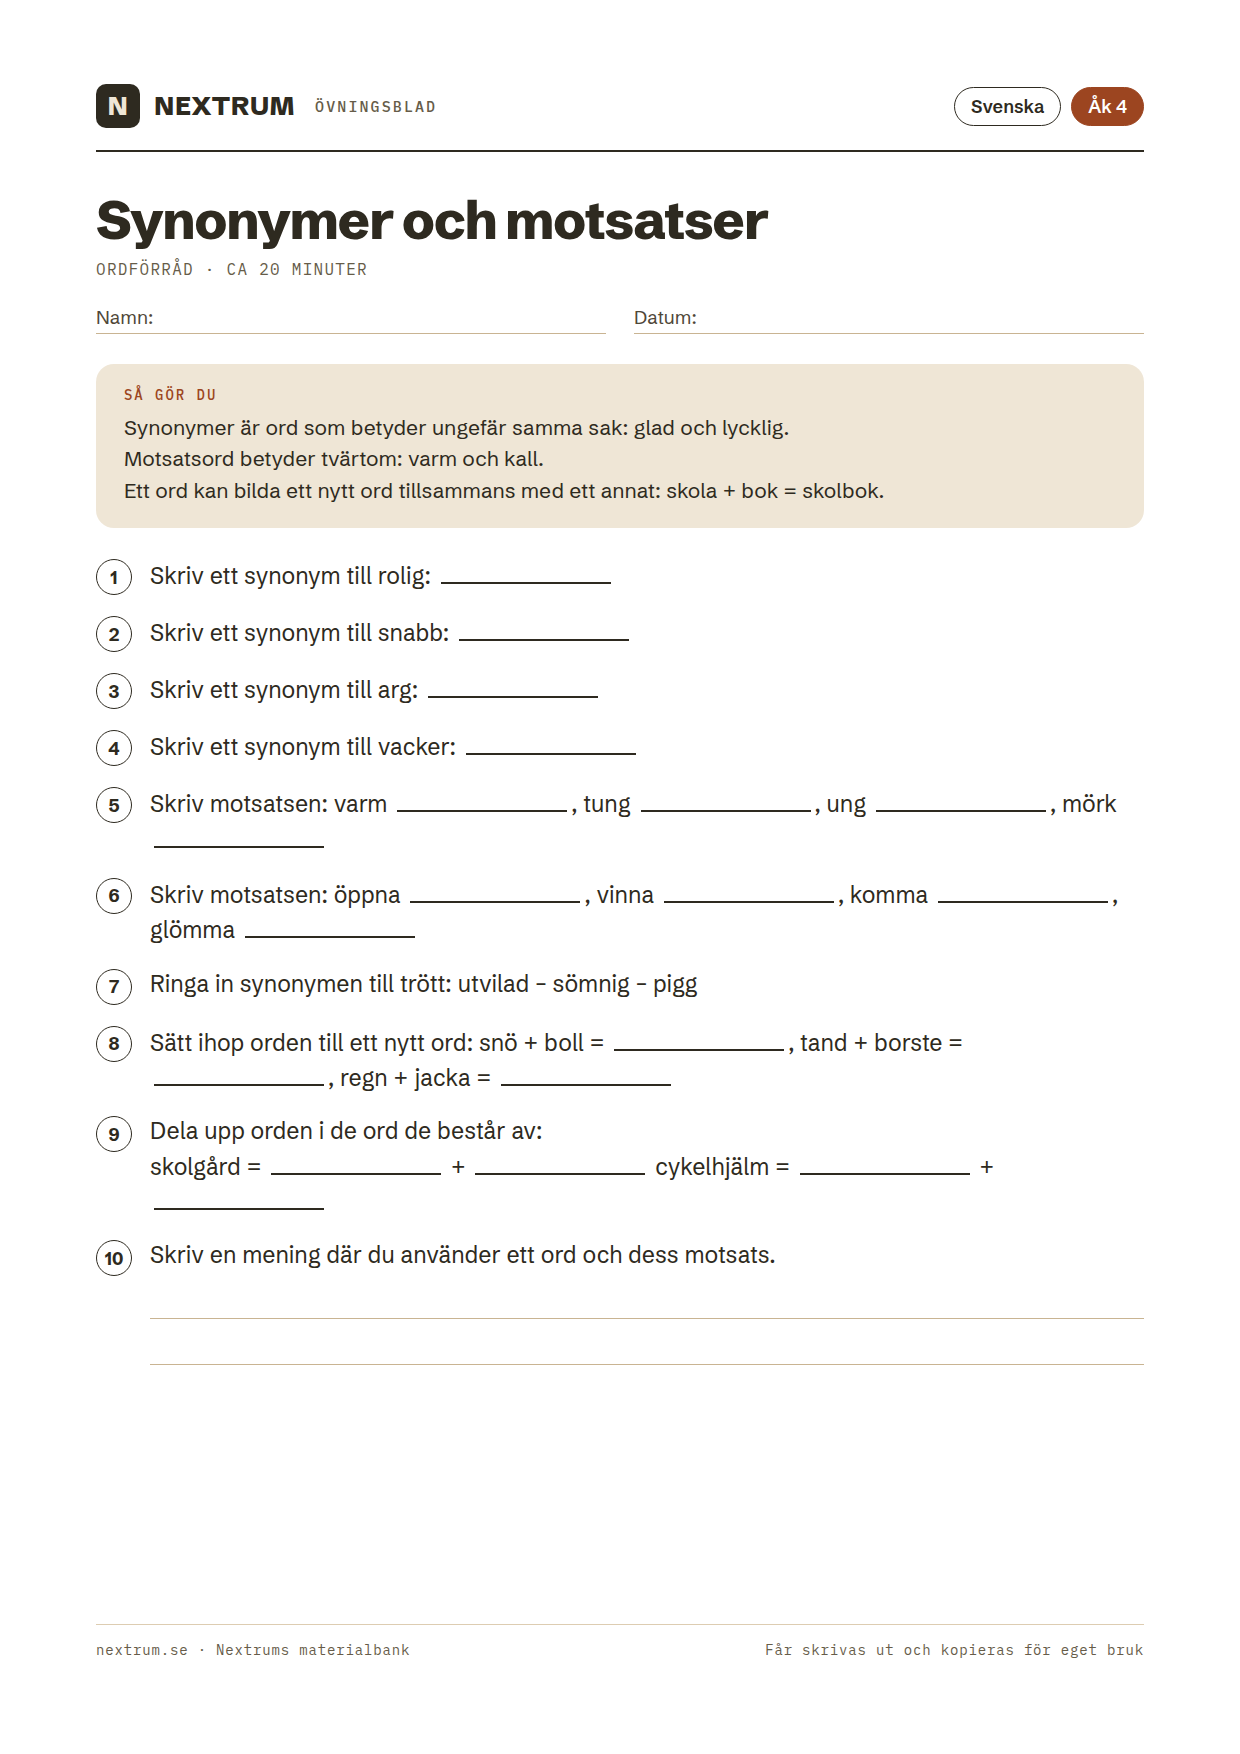
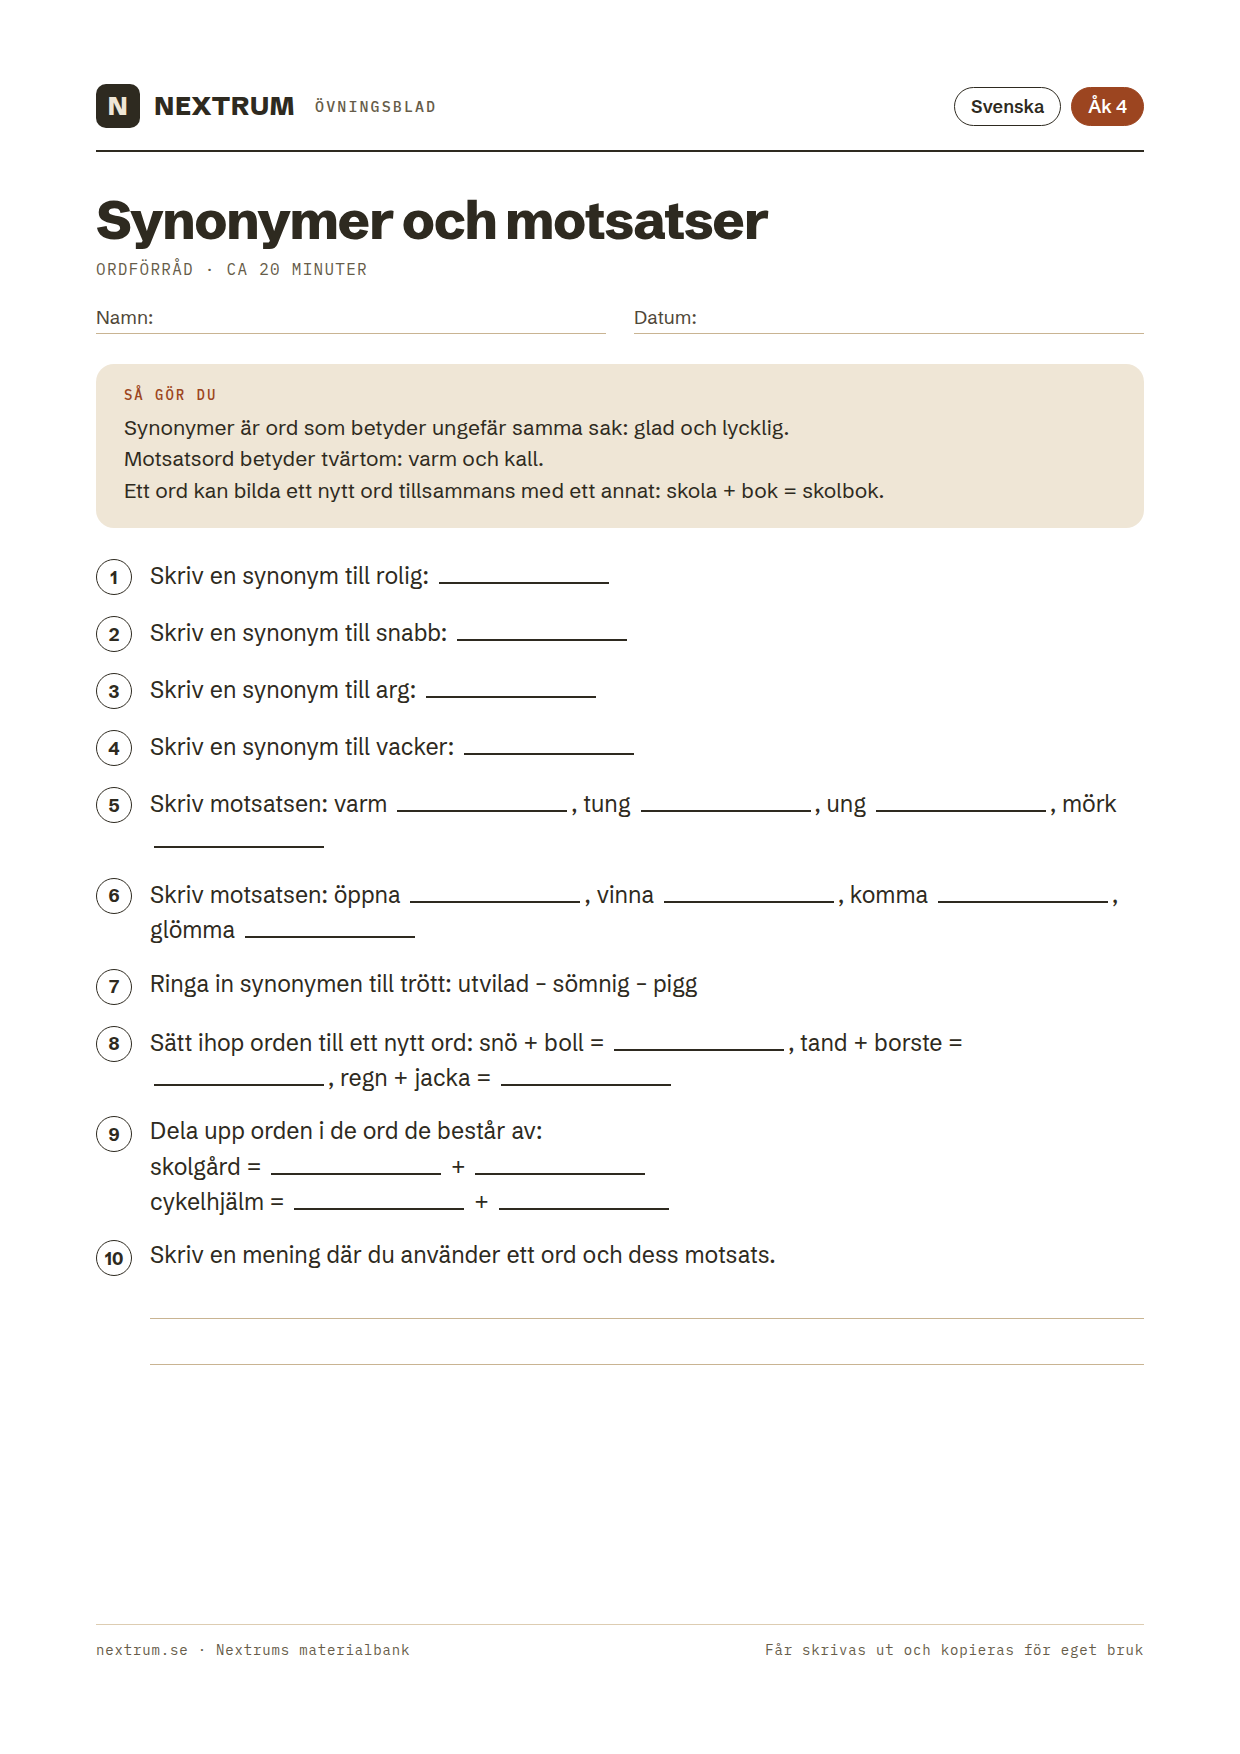
Fas 15.9: facit till mellanstadiets 18 blad, och tre rättelser
Facit har ett svar per uppgift, 141 i allt, och ritas till bank/facit/.
Den som skrev det löste varje uppgift och läste figurerna; tre blad
rättades: "en synonym" i stället för "ett", en ruta som sa 1 cm fast
den är mindre på papperet, och tinget där fria män samlades.

Claude-Session: https://claude.ai/code/session_011LBvXSaptKobfKq6P5G3d3

Changed region(s): [[0.1839, 0.3079, 0.3677, 0.431], [0.521, 0.6465, 0.6129, 0.6773], [0.1226, 0.6773, 0.2145, 0.7081]]

diff --git a/verktyg/bladen/facit_mellanstadiet.py b/verktyg/bladen/facit_mellanstadiet.py
@@ -1,0 +1,223 @@
+# -*- coding: utf-8 -*-
+"""Facit till bladen i mellanstadiet.py: ett svar per uppgift, i bladets ordning. Läs om facit i bygg-banken.py."""
+
+FACIT = {
+    'ak4-engelska-veckodagar-och-manader': [
+        'Monday',
+        'Wednesday',
+        'Friday',
+        'Sunday',
+        'Wednesday',
+        'April',
+        'Eget svar. Månaden med stor bokstav: January, February, March, April, May, June, July, August, '
+        'September, October, November eller December.',
+        'Eget svar. Dagens veckodag och dagen efter, med stor bokstav, till exempel: Today is Monday. '
+        'Tomorrow is Tuesday.',
+    ],
+
+    'ak5-matematik-brak': [
+        '3/8 (3 av 8 lika stora bitar)',
+        '1/2. Delar man samma helhet i 2 delar blir varje del större än om man delar den i 4 delar; '
+        '1/2 = 2/4, som är mer än 1/4.',
+        '1/2',
+        '4 (12 : 3 = 4)',
+        '15 (20 : 4 = 5, och 3 · 5 = 15)',
+        '1/5, 2/5, 3/5, 5/5 (samma nämnare: den minsta täljaren är minst)',
+        'Eget svar. Rektangeln delas i 3 (eller 6, 9 …) lika stora delar, och 2 av 3 delar (4 av 6 …) '
+        'är färglagda.',
+    ],
+
+    'ak6-no-igelkotten-gar-i-ide': [
+        'Djuret sover hela vintern på ett skyddat ställe. Kroppen går på sparlåga: temperaturen sjunker '
+        'och hjärtat slår långsamt, så att det går åt lite energi. (Bygger på texten om vintern.)',
+        'För att bygga upp ett lager av fett, som den lever på under vintern när den sover. '
+        '(Textens andra mening.)',
+        'Gärna under en buske eller i en komposthög. Boet är av löv och gräs.',
+        'Kroppstemperaturen sjunker och hjärtat slår mycket långsammare än vanligt, så den gör av med '
+        'lite energi.',
+        'Igelkotten kan sova i lövhögen. Väcks den för tidigt gör den av med för mycket av sitt fett och '
+        'kan få svårt att klara resten av vintern. (Textens slut.)',
+    ],
+
+    'ak4-matematik-multiplikationstabellerna': [
+        '21',
+        '32',
+        '36',
+        '56',
+        '54',
+        '72',
+        '6',
+        '9',
+        '7',
+        '9',
+        '9',
+        '6',
+        '42 ägg (7 · 6 = 42)',
+        '8 lag (48 : 6 = 8)',
+    ],
+
+    'ak4-matematik-tiondelar-och-decimaltal': [
+        '0,7',
+        '9/10',
+        '0,6',
+        'A = 0,3; B = 1,4',
+        '0,5; 0,8; 1,9; 2,1',
+        '5,9',
+        '2,2',
+        '4,6',
+        '2,4',
+        '3 kg (1,5 + 1,5 = 3,0)',
+        '24 dm (1 m = 10 dm, så 2,4 m = 24 dm)',
+    ],
+
+    'ak4-svenska-synonymer-och-motsatser': [
+        'Till exempel: kul, skojig, lustig.',
+        'Till exempel: kvick, rask, hastig, fort.',
+        'Till exempel: ilsken, sur, rasande, förargad.',
+        'Till exempel: vacker = fin, söt, snygg, stilig.',
+        'varm – kall, tung – lätt, ung – gammal, mörk – ljus',
+        'öppna – stänga, vinna – förlora, komma – gå (åka), glömma – komma ihåg (minnas)',
+        'sömnig',
+        'snöboll, tandborste, regnjacka',
+        'skolgård = skola + gård\ncykelhjälm = cykel + hjälm',
+        'Eget svar. En hel mening med ett ord och dess motsats, till exempel: Det var varmt inne men '
+        'kallt ute.',
+    ],
+
+    'ak4-engelska-describing-people': [
+        'She has long hair.',
+        'He is tall.',
+        'I have blue eyes.',
+        'My sister has brown hair.\nWe have a big dog.',
+        'I am nine.\nShe is my friend.\nWe are in class four.',
+        'tall = lång, short = kort, curly = lockig, young = ung',
+        'Eget svar. Tre meningar med has (och gärna is), till exempel: She has short curly hair. She has '
+        'brown eyes. She is tall.',
+    ],
+
+    'ak4-so-karta-och-vaderstreck': [
+        'N = norr, Ö = öster, S = söder, V = väster',
+        'söder',
+        'sydväst',
+        'Solen går upp i öster och går ner i väster.',
+        'söder om Stockholm',
+        'Norge och Finland',
+        'En förklaring till kartans tecken, färger och symboler, så att man vet vad de betyder.',
+        'Eget svar. Kartan visar vägen uppifrån med till exempel hus, vägar och skolan, och har en '
+        'teckenförklaring till tecknen. Gärna en pil mot norr.',
+    ],
+
+    'ak5-matematik-area-och-omkrets': [
+        'Omkrets: 26 cm (8 + 5 + 8 + 5)\nArea: 40 cm² (8 · 5)',
+        '24 dm (4 · 6)',
+        '7 cm (7 · 7 = 49)',
+        '4 cm (20 − 6 − 6 = 8, och 8 : 2 = 4)',
+        '4 cm (36 : 9 = 4)',
+        '20 m² (4 · 5)',
+        'Två av: 1 cm · 12 cm, 2 cm · 6 cm, 3 cm · 4 cm. Varje rektangel ska täcka 12 rutor och ha '
+        'sidorna utskrivna.',
+    ],
+
+    'ak5-matematik-diagram-och-medelvarde': [
+        '10',
+        '10 (7 + 3)',
+        '30 (7 + 10 + 3 + 2 + 8)',
+        '7 poäng (6 + 8 + 5 + 9 + 7 = 35, och 35 : 5 = 7)',
+        '3 (står tre gånger)',
+        '5 (i ordning: 2, 4, 5, 7, 9)',
+        'Eget svar. Fyra staplar med namn (äpple, banan, apelsin, päron) och höjderna 5, 3, 4 och 2, '
+        'en y-axel med jämna steg och gärna en rubrik eller "Antal frukter".',
+    ],
+
+    'ak5-svenska-skriva-dialog': [
+        'Till exempel:\n– Vart ska du? frågade Lena.\n– Jag ska till biblioteket, svarade Omar.\n'
+        'Varje replik på en ny rad med talstreck, och liten bokstav i "frågade" och "svarade".',
+        '– Vilken fin dag! sa Lena. (liten bokstav efter utropstecknet)',
+        '– Jag vill åka hem, sa Omar. (punkten byts mot komma)',
+        'Eget svar. Tre verb, till exempel: frågade, skrek, mumlade, utbrast, suckade, ropade, viskade.',
+        'Eget svar. Fyra repliker, var och en på en ny rad med talstreck, rätt skiljetecken före "sa"/'
+        '"frågade" och gärna andra verb än sa.',
+    ],
+
+    'ak5-engelska-present-simple': [
+        'play',
+        'plays',
+        'goes',
+        'watches',
+        'eat',
+        'live',
+        'She cycles to school every day. (Också rätt: She rides her bike to school every day.)',
+        'Eget svar. Tre meningar i present simple, med -s om han/hon, till exempel: I wake up at seven. '
+        'I eat breakfast. I go to school by bus.',
+    ],
+
+    'ak5-so-vikingatiden': [
+        'Ungefär från år 800 till år 1050. (Textens första mening.)',
+        'Långskepp',
+        'Två av: silver, pälsar, slavar.',
+        'Två av: Oden, Tor, Frej.',
+        'En samling där de fria männen möttes och avgjorde viktiga frågor.',
+        'De flesta var bönder och fiskare hemma, men många gav sig ut på långa resor, till exempel '
+        'österut genom Ryssland och Ukraina mot Konstantinopel.',
+    ],
+
+    'ak6-matematik-negativa-tal-och-koordinatsystem': [
+        'A = −4; B = 3',
+        '−3',
+        '−5, −1, 0, 2, 4',
+        '5 °C (−4 + 9 = 5)',
+        '−4 °C (3 − 7 = −4)',
+        '5 − 8 = −3\n−2 + 6 = 4',
+        'A = (3, 2); B = (−2, 3); C = (−4, −1); D = (2, −3)',
+        'E: 3 steg till vänster och 2 steg ner från origo. F: på y-axeln, 4 steg upp (översta linjen).',
+    ],
+
+    'ak6-matematik-enkla-ekvationer': [
+        'x = 8 (15 − 7)',
+        'x = 13 (9 + 4)',
+        'x = 7 (21 : 3)',
+        'x = 24 (6 · 4)',
+        'x = 4 (2x = 11 − 3 = 8, x = 8 : 2)',
+        'x = 5 (5x = 20 + 5 = 25, x = 25 : 5)',
+        '7 (4x + 3 = 31, 4x = 28, x = 7)',
+        '3x = 270, x = 90. En bok kostar 90 kr.',
+        '2 · 4 + 3 = 8 + 3 = 11. Vänster led blir 11, alltså stämmer x = 4.',
+    ],
+
+    'ak6-svenska-argumenterande-text': [
+        'Tesen är det man tycker och vill övertyga läsaren om, textens huvudåsikt.',
+        'Eget svar. Två skäl, till exempel: man hinner röra på sig och blir piggare på lektionerna; '
+        'man hinner äta och prata med kompisar.',
+        'Eget svar. Ett skäl emot, till exempel: skoldagen blir längre, eller det blir mindre tid till '
+        'lektionerna.',
+        '… varje dag eftersom det är bra för kroppen. Dessutom blir man piggare på lektionerna.',
+        'Eget svar. En tes först (ja eller nej), två eller tre argument med bindeord som eftersom och '
+        'dessutom, och en avslutning som upprepar åsikten.',
+    ],
+
+    'ak6-engelska-past-simple': [
+        'walked, played, watched, cleaned',
+        'lived, liked, danced',
+        'studied, tried, carried',
+        'played',
+        'visited',
+        'studied',
+        'watched',
+        'We cleaned our room on Saturday. (Också rätt: last Saturday.)',
+        'Eget svar. Tre meningar i dåtid som börjar med Yesterday I, till exempel: Yesterday I played '
+        'football. I watched TV. I helped my mum.',
+    ],
+
+    'ak6-no-krafter-i-vardagen': [
+        'Gravitationen (tyngdkraften)',
+        'Friktion (mellan bromsen och hjulet)',
+        'Newton (N)',
+        'Tre av: få det att börja röra sig, stanna, ändra riktning, ändra form.',
+        'På torr asfalt är friktionen stor, så skon får fäste. Blank is är hal och ger liten friktion, '
+        'så foten glider.',
+        'Eget svar. Bra: skor eller däck får fäste, bromsar fungerar. Besvärlig: det är tungt att skjuta '
+        'en låda, cykelkedjan slits.',
+        'Eget svar. En låda på ett golv, en pil rakt nedåt märkt gravitation och en pil längs golvet mot '
+        'rörelsen märkt friktion.',
+    ],
+}

diff --git a/verktyg/bladen/mellanstadiet.py b/verktyg/bladen/mellanstadiet.py
@@ -80,13 +80,13 @@ BLAD = [
          instruktion=['Synonymer är ord som betyder ungefär samma sak: glad och lycklig.',
                       'Motsatsord betyder tvärtom: varm och kall.',
                       'Ett ord kan bilda ett nytt ord tillsammans med ett annat: skola + bok = skolbok.'],
-         uppgifter=[('Skriv ett synonym till rolig: ___', 0), ('Skriv ett synonym till snabb: ___', 0),
-                    ('Skriv ett synonym till arg: ___', 0), ('Skriv ett synonym till vacker: ___', 0),
+         uppgifter=[('Skriv en synonym till rolig: ___', 0), ('Skriv en synonym till snabb: ___', 0),
+                    ('Skriv en synonym till arg: ___', 0), ('Skriv en synonym till vacker: ___', 0),
                     ('Skriv motsatsen: varm ___, tung ___, ung ___, mörk ___', 0),
                     ('Skriv motsatsen: öppna ___, vinna ___, komma ___, glömma ___', 0),
                     ('Ringa in synonymen till trött: utvilad – sömnig – pigg', 0),
                     ('Sätt ihop orden till ett nytt ord: snö + boll = ___, tand + borste = ___, regn + jacka = ___', 0),
-                    ('Dela upp orden i de ord de består av:\nskolgård = ___ + ___   cykelhjälm = ___ + ___', 0),
+                    ('Dela upp orden i de ord de består av:\nskolgård = ___ + ___\ncykelhjälm = ___ + ___', 0),
                     ('Skriv en mening där du använder ett ord och dess motsats.', 2)],
          beskrivning='Synonymer, motsatsord och sammansatta ord: hitta, sortera och bilda egna.'),
 
@@ -132,7 +132,7 @@ BLAD = [
                     ('En rektangel har omkretsen 20 cm och den ena sidan är 6 cm. Hur lång är den andra sidan? [] cm', 0),
                     ('En rektangel har arean 36 cm² och den ena sidan är 9 cm. Hur lång är den andra sidan? [] cm', 0),
                     ('Ett rum är 4 m brett och 5 m långt. Hur många kvadratmeter är golvet? [] m²', 0),
-                    ('Rita två olika rektanglar som båda har arean 12 cm². Skriv sidornas längder. En ruta är 1 cm.', 'ruta')],
+                    ('Rita två olika rektanglar som båda har arean 12 cm². Skriv sidornas längder. Låt varje ruta ha sidan 1 cm.', 'ruta')],
          beskrivning='Omkrets och area av rektanglar och kvadrater: räkna, räkna baklänges och rita.'),
 
     dict(fil='ak5-matematik-diagram-och-medelvarde', arskurs='ak5', amne='Matematik',
@@ -190,7 +190,7 @@ BLAD = [
                'Vikingarna handlade med silver, pälsar och slavar, och en del plundrade också kloster och '
                'städer. Vikingar från Sverige reste ofta österut, genom det som i dag är Ryssland och Ukraina och vidare mot Konstantinopel. '
                'De trodde på många gudar, till exempel Oden, Tor och Frej. Viktiga frågor avgjordes på tinget, '
-               'där fria människor samlades. För att skriva använde vikingarna runor, som ristades i sten och trä.'),
+               'där fria män samlades. För att skriva använde vikingarna runor, som ristades i sten och trä.'),
          uppgifter=[('När var vikingatiden ungefär?', 1),
                     ('Vad kallades de smala skeppen som vikingarna seglade i?', 1),
                     ('Nämn två saker som vikingarna handlade med.', 1),
